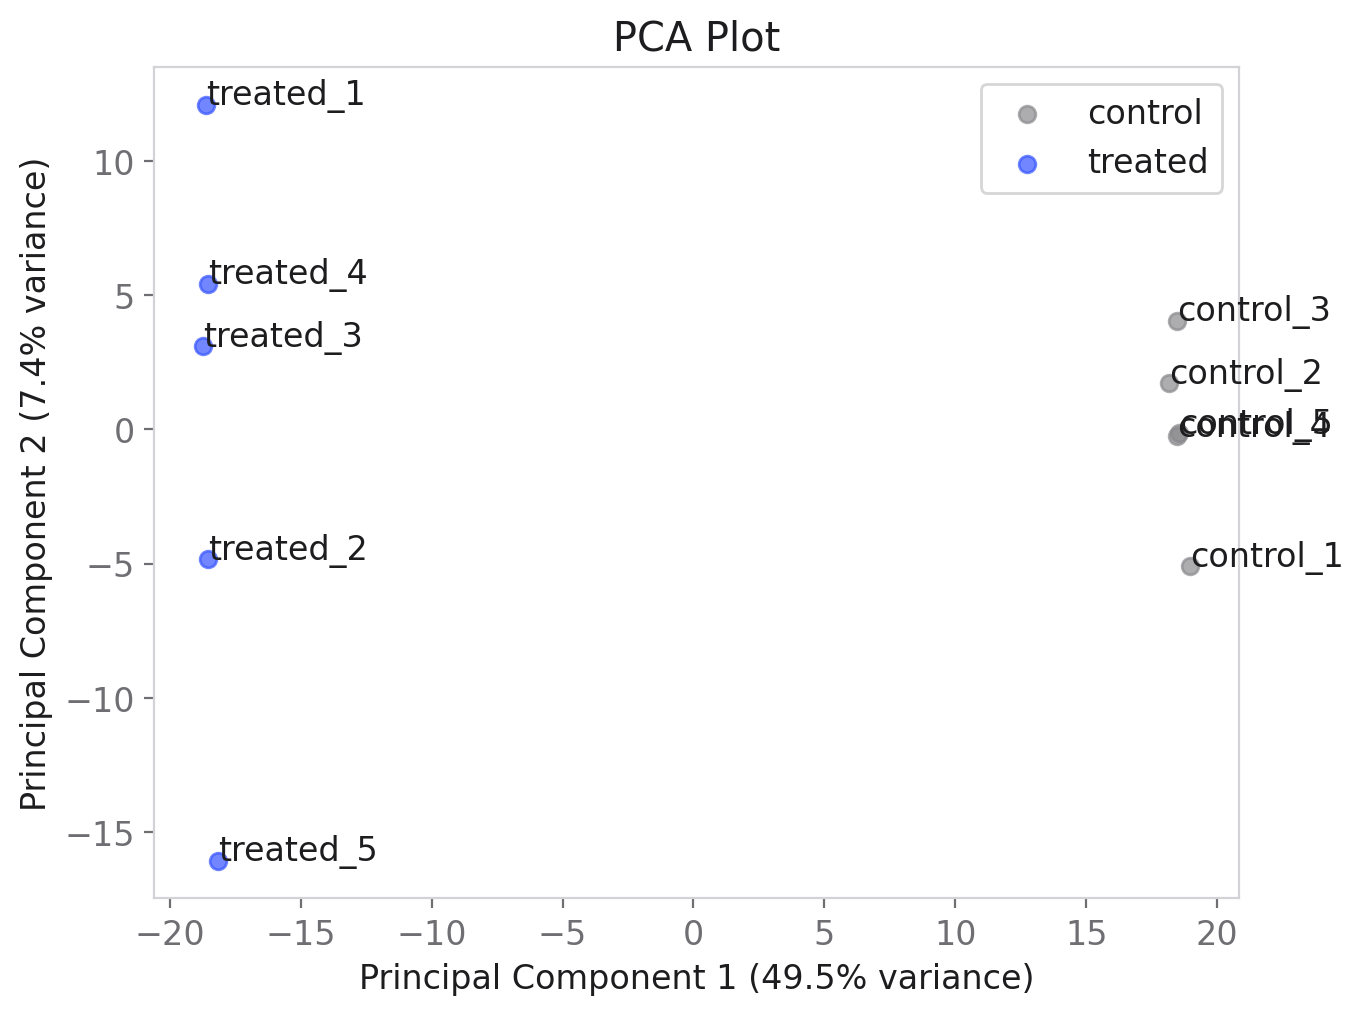
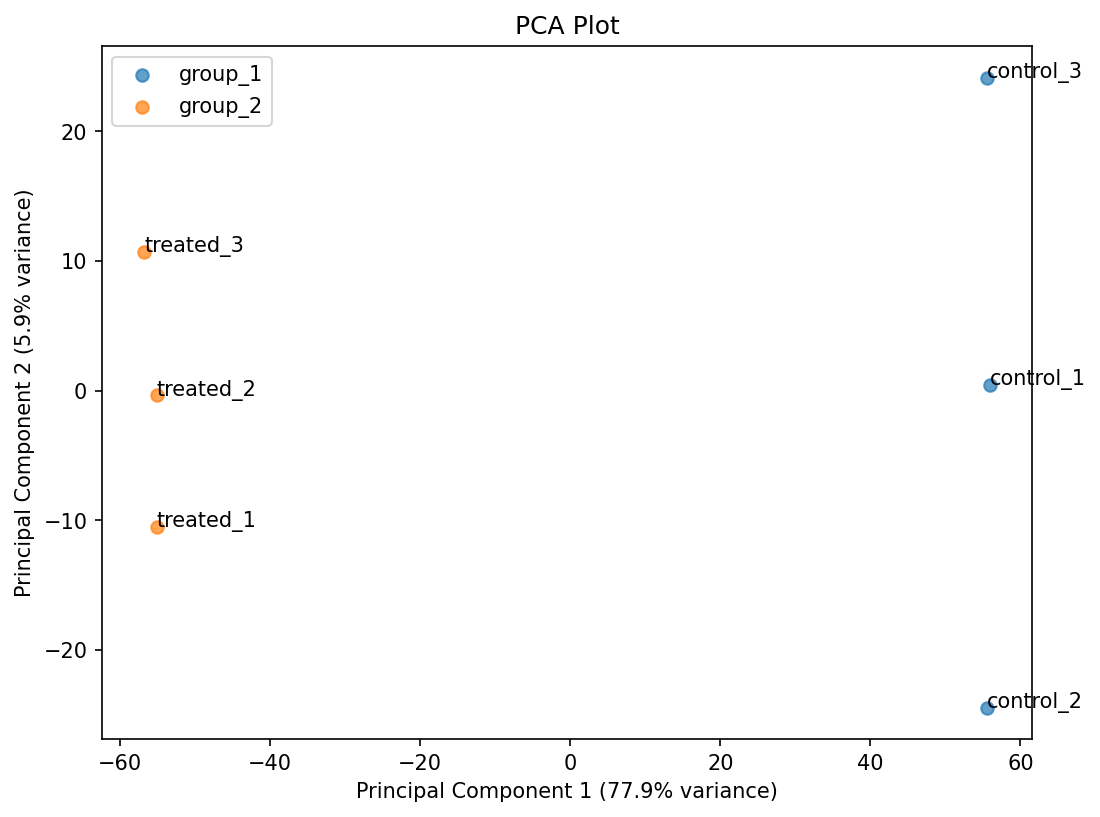
Add bioinsight CLI, refresh docs/ site to match (v0.6.0)
bioinsight/cli.py: argparse wrapper around run_analysis, wired as a
real console script ([project.scripts] in pyproject.toml). Point it
at a CSV and two group names and it writes the DE table, QC table,
volcano/PCA plots, and (with --gmt) a pathway enrichment table to an
output directory, without needing a Python script in between.
Expected-failure modes (missing file, unknown sample, malformed GMT
line) print a one-line error and exit 1 instead of a traceback;
anything else is left to crash loudly on purpose.

tests/test_cli.py: 7 tests calling main() directly (happy path,
--no-plots, --gmt, --min-count filtering, three failure modes), plus
a manual smoke test of the actual installed console script against a
real CSV.

Also removed test_pca.png / test_volcano.png, two manual-testing
leftovers that had been sitting at the repo root since the first
plotting commit. Added /test_*.png and /bioinsight_output/ to
.gitignore so it doesn't happen again.

docs/ site updated to match: version bump, a CLI capability card and
a GMT-loading capability card (capabilities grid now 10 items, 5x2),
and the hero terminal panel now leads with a real `bioinsight ...`
invocation and its real stdout instead of a Python-only example.
Regenerated volcano-demo.png and pca-demo.png by actually running the
new CLI against a fresh synthetic dataset and copying its real output
onto the site, rather than calling the plotting functions directly as
before.

Tests: 75 -> 82.

diff --git a/docs/index.html b/docs/index.html
@@ -50,7 +50,7 @@
     <!-- 1. HERO -->
     <section class="hero">
       <div class="container">
-        <span class="eyebrow">RNA-seq analysis pipeline · v0.5.0</span>
+        <span class="eyebrow">RNA-seq analysis pipeline · v0.6.0</span>
         <h1>Turn a count matrix<br />into something you can trust.</h1>
         <p class="lede">
           Validation, quality control, normalization, exploratory differential
@@ -69,17 +69,17 @@
             </div>
             <pre><code><span class="c">$ pip install -e .</span>
 
+<span class="c">$ bioinsight counts.csv \
+    --group1 control_1,control_2,control_3 \
+    --group2 treated_1,treated_2,treated_3 \
+    --min-count 10</span>
+
+<span class="n">4000 genes tested, 515 significant at alpha=0.05, |log2FC|&gt;1.0.
+Results written to bioinsight_output/</span>
+
+<span class="c"># or as a library, if you want the intermediate objects:</span>
 <span class="k">from</span> <span class="n">bioinsight.pipeline</span> <span class="k">import</span> <span class="n">run_analysis</span>
-
-<span class="n">results</span> = <span class="n">run_analysis</span>(
-    counts=<span class="s">"counts.csv"</span>,
-    group_1=[<span class="s">"control_1"</span>, <span class="s">"control_2"</span>, <span class="s">"control_3"</span>],
-    group_2=[<span class="s">"treated_1"</span>, <span class="s">"treated_2"</span>, <span class="s">"treated_3"</span>],
-    min_count=<span class="n">10</span>,
-)
-
-<span class="c">&gt;&gt;&gt; results["differential_expression"]["significant"].sum()</span>
-<span class="n">207</span></code></pre>
+<span class="n">results</span> = <span class="n">run_analysis</span>(<span class="s">"counts.csv"</span>, group_1=[...], group_2=[...])</code></pre>
           </div>
         </div>
       </div>
@@ -180,7 +180,7 @@
               <div class="step-line"></div>
             </div>
             <h4>Pathway Analysis</h4>
-            <p>Hypergeometric enrichment against a background you define — not "every gene that exists."</p>
+            <p>Hypergeometric enrichment against a background you define — not "every gene that exists." Reads standard .gmt gene-set files directly.</p>
           </div>
 
           <div class="pipeline-step">
@@ -238,6 +238,14 @@
             <h3>Optional AI summary</h3>
             <p>Narrates results that are already computed. Doesn't verify them.</p>
           </div>
+          <div class="capability">
+            <h3>GMT / MSigDB gene sets</h3>
+            <p>Load standard pathway files directly — no hand-converting to a Python dict.</p>
+          </div>
+          <div class="capability">
+            <h3>Command-line interface</h3>
+            <p>Run the whole pipeline from a terminal. No script required.</p>
+          </div>
         </div>
       </div>
     </section>
@@ -248,7 +256,7 @@
         <div class="section-head reveal">
           <span class="eyebrow">In practice</span>
           <h2>Real output, from real code.</h2>
-          <p>The plots below were generated by BioInsight's own <code>plot_volcano</code> and <code>plot_pca</code> on a synthetic 4,000-gene dataset — same functions, same defaults you'd call yourself.</p>
+          <p>The plots below came out of an actual <code>bioinsight</code> CLI run on a synthetic 4,000-gene dataset — same command, same defaults you'd run yourself.</p>
         </div>
 
         <div class="output-grid reveal">

diff --git a/docs/styles.css b/docs/styles.css
@@ -529,7 +529,7 @@ section {
 
 .capabilities-grid {
   display: grid;
-  grid-template-columns: repeat(4, 1fr);
+  grid-template-columns: repeat(5, 1fr);
   gap: 1px;
   background: var(--border-soft);
   border: 1px solid var(--border-soft);
@@ -539,7 +539,7 @@ section {
 
 .capability {
   background: var(--bg);
-  padding: 32px 28px;
+  padding: 28px 20px;
 }
 
 .capability h3 {
@@ -557,6 +557,10 @@ section {
 @media (max-width: 900px) {
   .capabilities-grid {
     grid-template-columns: repeat(2, 1fr);
+  }
+
+  .capability {
+    padding: 28px;
   }
 }
 

diff --git a/bioinsight/cli.py b/bioinsight/cli.py
@@ -1,0 +1,130 @@
+"""
+Command-line entry point for BioInsight.
+
+This wraps ``bioinsight.pipeline.run_analysis`` so the pipeline can be run
+without writing a Python script: point it at a count matrix CSV, name your
+two groups, and it writes the differential expression table (and, if asked,
+plots and a pathway enrichment table) to an output directory.
+
+It is deliberately a thin wrapper. All the actual logic -- validation, QC,
+filtering, normalization, DE, enrichment -- lives in the library modules;
+this module's only job is argument parsing, wiring, and turning exceptions
+that are expected to happen on bad input (a missing file, an unknown sample
+name, a malformed GMT file) into a clean error message instead of a
+traceback.
+"""
+
+from __future__ import annotations
+
+import argparse
+import sys
+from pathlib import Path
+
+import pandas as pd
+
+from bioinsight.io.counts import CountMatrixError
+from bioinsight.pathway_analysis.gmt import load_gmt
+from bioinsight.pipeline import run_analysis
+
+
+def _parse_sample_list(raw: str) -> list[str]:
+    samples = [s.strip() for s in raw.split(",") if s.strip()]
+    if not samples:
+        raise ValueError("Expected a comma-separated list of sample names, got an empty one.")
+    return samples
+
+
+def build_parser() -> argparse.ArgumentParser:
+    parser = argparse.ArgumentParser(
+        prog="bioinsight",
+        description="Run the BioInsight RNA-seq pipeline on a count matrix CSV.",
+    )
+    parser.add_argument("counts", help="Path to a count matrix CSV (genes as rows, samples as columns).")
+    parser.add_argument("--group1", required=True, help="Comma-separated sample names for the first comparison group.")
+    parser.add_argument("--group2", required=True, help="Comma-separated sample names for the second comparison group.")
+    parser.add_argument("--gmt", help="Path to a .gmt gene-set file to run pathway enrichment against.")
+    parser.add_argument(
+        "--background",
+        help="Comma-separated background gene list for enrichment. Defaults to every gene in the "
+             "(filtered, if --min-count is set) count matrix if --gmt is given without this.",
+    )
+    parser.add_argument("--min-count", type=int, default=None, help="Minimum raw read count for a gene to pass pre-DE filtering. Off by default.")
+    parser.add_argument("--min-samples", type=int, default=2, help="Number of samples that must clear --min-count. Default 2. Ignored without --min-count.")
+    parser.add_argument("--alpha", type=float, default=0.05, help="Adjusted p-value cutoff for significance. Default 0.05.")
+    parser.add_argument("--lfc-threshold", type=float, default=1.0, help="Absolute log fold change cutoff for significance. Default 1.0.")
+    parser.add_argument("--no-plots", action="store_true", help="Skip generating the volcano and PCA plots.")
+    parser.add_argument("--explain", action="store_true", help="Generate a plain-language explanation of the results (requires ANTHROPIC_API_KEY).")
+    parser.add_argument("--out", default="bioinsight_output", help="Output directory. Default 'bioinsight_output'.")
+    return parser
+
+
+def _run(argv: list[str]) -> int:
+    parser = build_parser()
+    args = parser.parse_args(argv)
+
+    group_1 = _parse_sample_list(args.group1)
+    group_2 = _parse_sample_list(args.group2)
+
+    gene_sets = None
+    background_genes = None
+    if args.gmt is not None:
+        gene_sets = load_gmt(args.gmt)
+        if args.background is not None:
+            background_genes = set(_parse_sample_list(args.background))
+        else:
+            # No explicit background given: fall back to every gene in the
+            # count matrix, which is the honest "everything that could have
+            # been tested" universe for this run.
+            background_genes = set(pd.read_csv(args.counts, index_col=0).index)
+
+    results = run_analysis(
+        args.counts,
+        group_1=group_1,
+        group_2=group_2,
+        gene_sets=gene_sets,
+        background_genes=background_genes,
+        min_count=args.min_count,
+        min_samples=args.min_samples,
+        alpha=args.alpha,
+        lfc_threshold=args.lfc_threshold,
+        generate_plots=not args.no_plots,
+        explain_results=args.explain,
+    )
+
+    out_dir = Path(args.out)
+    out_dir.mkdir(parents=True, exist_ok=True)
+
+    de = results["differential_expression"]
+    de.to_csv(out_dir / "differential_expression.csv")
+    results["qc"].to_csv(out_dir / "qc.csv")
+
+    if "pathway_enrichment" in results:
+        results["pathway_enrichment"].to_csv(out_dir / "pathway_enrichment.csv", index=False)
+
+    if "volcano_fig" in results:
+        results["volcano_fig"].savefig(out_dir / "volcano.png", dpi=150, bbox_inches="tight")
+    if "pca_fig" in results:
+        results["pca_fig"].savefig(out_dir / "pca.png", dpi=150, bbox_inches="tight")
+
+    if "explanation" in results:
+        (out_dir / "explanation.txt").write_text(results["explanation"])
+
+    n_sig = int(de["significant"].sum())
+    print(f"{len(de)} genes tested, {n_sig} significant at alpha={args.alpha}, |log2FC|>{args.lfc_threshold}.")
+    print(f"Results written to {out_dir}/")
+
+    return 0
+
+
+def main(argv: list[str] | None = None) -> int:
+    if argv is None:
+        argv = sys.argv[1:]
+    try:
+        return _run(argv)
+    except (CountMatrixError, ValueError, FileNotFoundError) as exc:
+        print(f"bioinsight: {exc}", file=sys.stderr)
+        return 1
+
+
+if __name__ == "__main__":
+    sys.exit(main())

diff --git a/tests/test_cli.py b/tests/test_cli.py
@@ -1,0 +1,110 @@
+import pandas as pd
+
+from bioinsight.cli import main
+
+
+def test_cli_runs_end_to_end_and_writes_outputs(tmp_path, capsys):
+    out_dir = tmp_path / "out"
+
+    exit_code = main([
+        "tests/fixtures/cli_counts.csv",
+        "--group1", "sample1,sample2",
+        "--group2", "sample3,sample4",
+        "--out", str(out_dir),
+    ])
+
+    assert exit_code == 0
+    assert (out_dir / "differential_expression.csv").exists()
+    assert (out_dir / "qc.csv").exists()
+    assert (out_dir / "volcano.png").exists()
+    assert (out_dir / "pca.png").exists()
+
+    de = pd.read_csv(out_dir / "differential_expression.csv", index_col=0)
+    assert list(de.index) == ["gene1", "gene2", "gene3", "gene4"]
+
+    captured = capsys.readouterr()
+    assert "genes tested" in captured.out
+
+
+def test_cli_no_plots_skips_figures(tmp_path):
+    out_dir = tmp_path / "out"
+
+    main([
+        "tests/fixtures/cli_counts.csv",
+        "--group1", "sample1,sample2",
+        "--group2", "sample3,sample4",
+        "--no-plots",
+        "--out", str(out_dir),
+    ])
+
+    assert not (out_dir / "volcano.png").exists()
+    assert not (out_dir / "pca.png").exists()
+
+
+def test_cli_with_gmt_writes_pathway_enrichment(tmp_path):
+    out_dir = tmp_path / "out"
+
+    main([
+        "tests/fixtures/cli_counts.csv",
+        "--group1", "sample1,sample2",
+        "--group2", "sample3,sample4",
+        "--gmt", "tests/fixtures/sample_gene_sets.gmt",
+        "--no-plots",
+        "--out", str(out_dir),
+    ])
+
+    # sample_gene_sets.gmt doesn't share gene names with cli_counts.csv,
+    # so this exercises the "runs without crashing on zero overlap" path --
+    # the real assertion is that it still produced a table.
+    assert (out_dir / "pathway_enrichment.csv").exists()
+
+
+def test_cli_min_count_filters_low_count_genes(tmp_path):
+    out_dir = tmp_path / "out"
+
+    main([
+        "tests/fixtures/cli_counts.csv",
+        "--group1", "sample1,sample2",
+        "--group2", "sample3,sample4",
+        "--min-count", "10",
+        "--min-samples", "2",
+        "--no-plots",
+        "--out", str(out_dir),
+    ])
+
+    de = pd.read_csv(out_dir / "differential_expression.csv", index_col=0)
+    # gene4 = [8, 11, 4, 7] only clears 10 reads in one sample -- filtered out.
+    assert "gene4" not in list(de.index)
+
+
+def test_cli_missing_sample_exits_nonzero(tmp_path, capsys):
+    exit_code = main([
+        "tests/fixtures/cli_counts.csv",
+        "--group1", "sample1,does_not_exist",
+        "--group2", "sample3,sample4",
+        "--out", str(tmp_path / "out"),
+    ])
+
+    assert exit_code == 1
+    captured = capsys.readouterr()
+    assert "does_not_exist" in captured.err
+
+
+def test_cli_missing_file_exits_nonzero():
+    exit_code = main([
+        "tests/fixtures/does_not_exist.csv",
+        "--group1", "sample1",
+        "--group2", "sample2",
+    ])
+
+    assert exit_code == 1
+
+
+def test_cli_empty_group_raises_via_exit_code():
+    exit_code = main([
+        "tests/fixtures/cli_counts.csv",
+        "--group1", "",
+        "--group2", "sample3,sample4",
+    ])
+
+    assert exit_code == 1

diff --git a/DEVLOG.md b/DEVLOG.md
@@ -67,6 +67,24 @@ Test count across the day: 27 → 75.
 
 ---
 
+## Aug 12 — a CLI, and cleaning up after myself
+
+**Command-line entry point (v0.6.0).** Every single use of BioInsight so far meant writing a Python script that imports `run_analysis` and calls it — fine for me, annoying for literally anyone else who just wants to point the pipeline at a CSV and get results back. Added `bioinsight/cli.py`: an argparse wrapper around `run_analysis`, wired up as a real console script (`[project.scripts]` in `pyproject.toml`), so `pip install`-ing the package gives you a `bioinsight` command, not just an importable package.
+
+It's deliberately thin — no logic of its own beyond argument parsing and writing outputs to disk (DE table and QC table as CSV, plots as PNG, pathway enrichment as CSV if a `--gmt` file was given, an explanation as a text file if `--explain` was passed). All the actual pipeline logic still lives in `run_analysis`; the CLI's only real design decision was what to do about a background gene universe for enrichment when the user doesn't hand-specify one with `--background` — it defaults to every gene in the input matrix, which is the same "everything that could have been tested" reasoning the library docstring already commits to elsewhere, just applied automatically instead of requiring the caller to know to do it.
+
+Errors a user is likely to actually hit — a missing file, an unknown sample name, a malformed GMT line — get caught and printed as a one-line `bioinsight: ...` message with exit code 1, instead of a Python traceback. Anything outside that expected set of exceptions is left to crash loudly, on purpose: a CLI that swallows every exception into a generic "something went wrong" is worse than one that occasionally shows you a traceback for a real bug.
+
+Tested it two ways: a normal pytest suite (`tests/test_cli.py`, 7 tests — happy path, `--no-plots`, `--gmt`, `--min-count` filtering, and three failure modes) calling `main()` directly, and then actually installing the package into a clean venv and running the real `bioinsight` command against a real CSV, because a CLI's argument parser and entry-point wiring are exactly the kind of thing that can pass every unit test and still be broken the moment a real shell invokes it.
+
+**Also found and removed two committed accidents.** `test_pca.png` and `test_volcano.png` had been sitting at the repo root since the very first plotting commit (Aug 9, `v0.2`) — leftover output from manually eyeballing a plot locally, never meant to be tracked. Removed them and added `/test_*.png` and `/bioinsight_output/` (the CLI's default output folder) to `.gitignore` so it doesn't happen again, either by hand or by running the new CLI inside the repo.
+
+**Site refresh.** Version bump aside, regenerated the volcano and PCA demo images on `docs/` by actually running the new `bioinsight` CLI against a fresh synthetic dataset, in-process, and copying its real output PNGs straight onto the site — more honest than the previous approach of calling the plotting functions directly, since it's now the exact same code path a real user's terminal would hit. The old demo happened to land on 207 significant genes; this run landed on 515 out of 4,000 with a different random seed's worth of synthetic effect sizes — both numbers are real, neither is picked to look good, and the hero terminal panel and capabilities grid (now 10 items, laid out 5x2) got updated to match: a CLI card, a GMT-loading card, and the hero code block now leads with the actual `bioinsight ...` command and its real stdout instead of a Python-only example.
+
+Test count: 75 → 82.
+
+---
+
 ## Decisions I looked at and didn't make
 
 Worth writing down what got *rejected*, not just what shipped:
@@ -77,3 +95,4 @@ Worth writing down what got *rejected*, not just what shipped:
 - **Reimplementing edgeR's `filterByExpr`** (which accounts for group sizes and normalized CPM, not just a flat raw-count cutoff) instead of a simple fixed threshold. `filterByExpr` is the more defensible method, but it's also a meaningfully bigger piece of statistical machinery to get right and test. Shipped the simple version now; the module docstring says outright that it isn't `filterByExpr`, so nobody mistakes "good enough to stop testing dead genes" for "the field-standard algorithm."
 - **Duplicating install/usage commands in both the README and this file**, for convenience. Rejected — two copies of the same command drift the moment one changes and nobody updates the other. The README has the one copy that matters for actually running the thing.
 - **A separate repo for the website** (e.g. a dedicated site repo, or the classic `username.github.io` pattern). Rejected in favor of `docs/` inside this repo: one source of truth, and a design/content update to the site can't quietly fall out of sync with the code it's describing.
+- **`click` or `typer` instead of `argparse`** for the CLI. Both are nicer to write. Neither is worth a new dependency for a handful of flags that the standard library already handles fine — `argparse` stays until the CLI's surface area actually outgrows it.

diff --git a/README.md b/README.md
@@ -4,7 +4,7 @@ BioInsight is a Python pipeline for taking an RNA-seq count matrix from "okay, I
 
 I'm building it because I wanted to understand what actually happens between getting biological data and claiming that it means something. Turns out there are approximately seventeen ways to produce convincing nonsense before breakfast, so BioInsight is currently focused on making those mistakes loud, testable, and difficult to ignore.
 
-Current version: v0.5.0. It works, it has tests, and it is actively improving. It is also an educational project — not a production replacement for DESeq2, edgeR, or an actual bioinformatician who has seen your experimental design.
+Current version: v0.6.0. It works, it has tests, and it is actively improving. It is also an educational project — not a production replacement for DESeq2, edgeR, or an actual bioinformatician who has seen your experimental design.
 
 So what is this, exactly?
 
@@ -44,7 +44,7 @@ What it does, roughly
 
 Raw counts go in. Along the way: the data gets checked for the kind of problems that quietly wreck an analysis, each sample gets sanity-checked against the others, samples get put on a comparable scale, genes get tested for meaningful differences between conditions, the results get corrected for the fact that testing thousands of things at once produces false alarms, and — if the numbers hold up — the changed genes get checked for whether they cluster into any known biological pathways. Plots come out along the way so you can actually look at the data instead of just trusting a table.
 
-Every piece of that also works on its own, in case you want to stop and poke at an intermediate result instead of running the whole thing end to end.
+Every piece of that also works on its own, in case you want to stop and poke at an intermediate result instead of running the whole thing end to end. It also runs as a command-line tool now, not just as a library you import — point it at a CSV and two group names and it writes the results table, the plots, and the enrichment table to a folder, without needing a Python script in between.
 
 Where it stands
 
